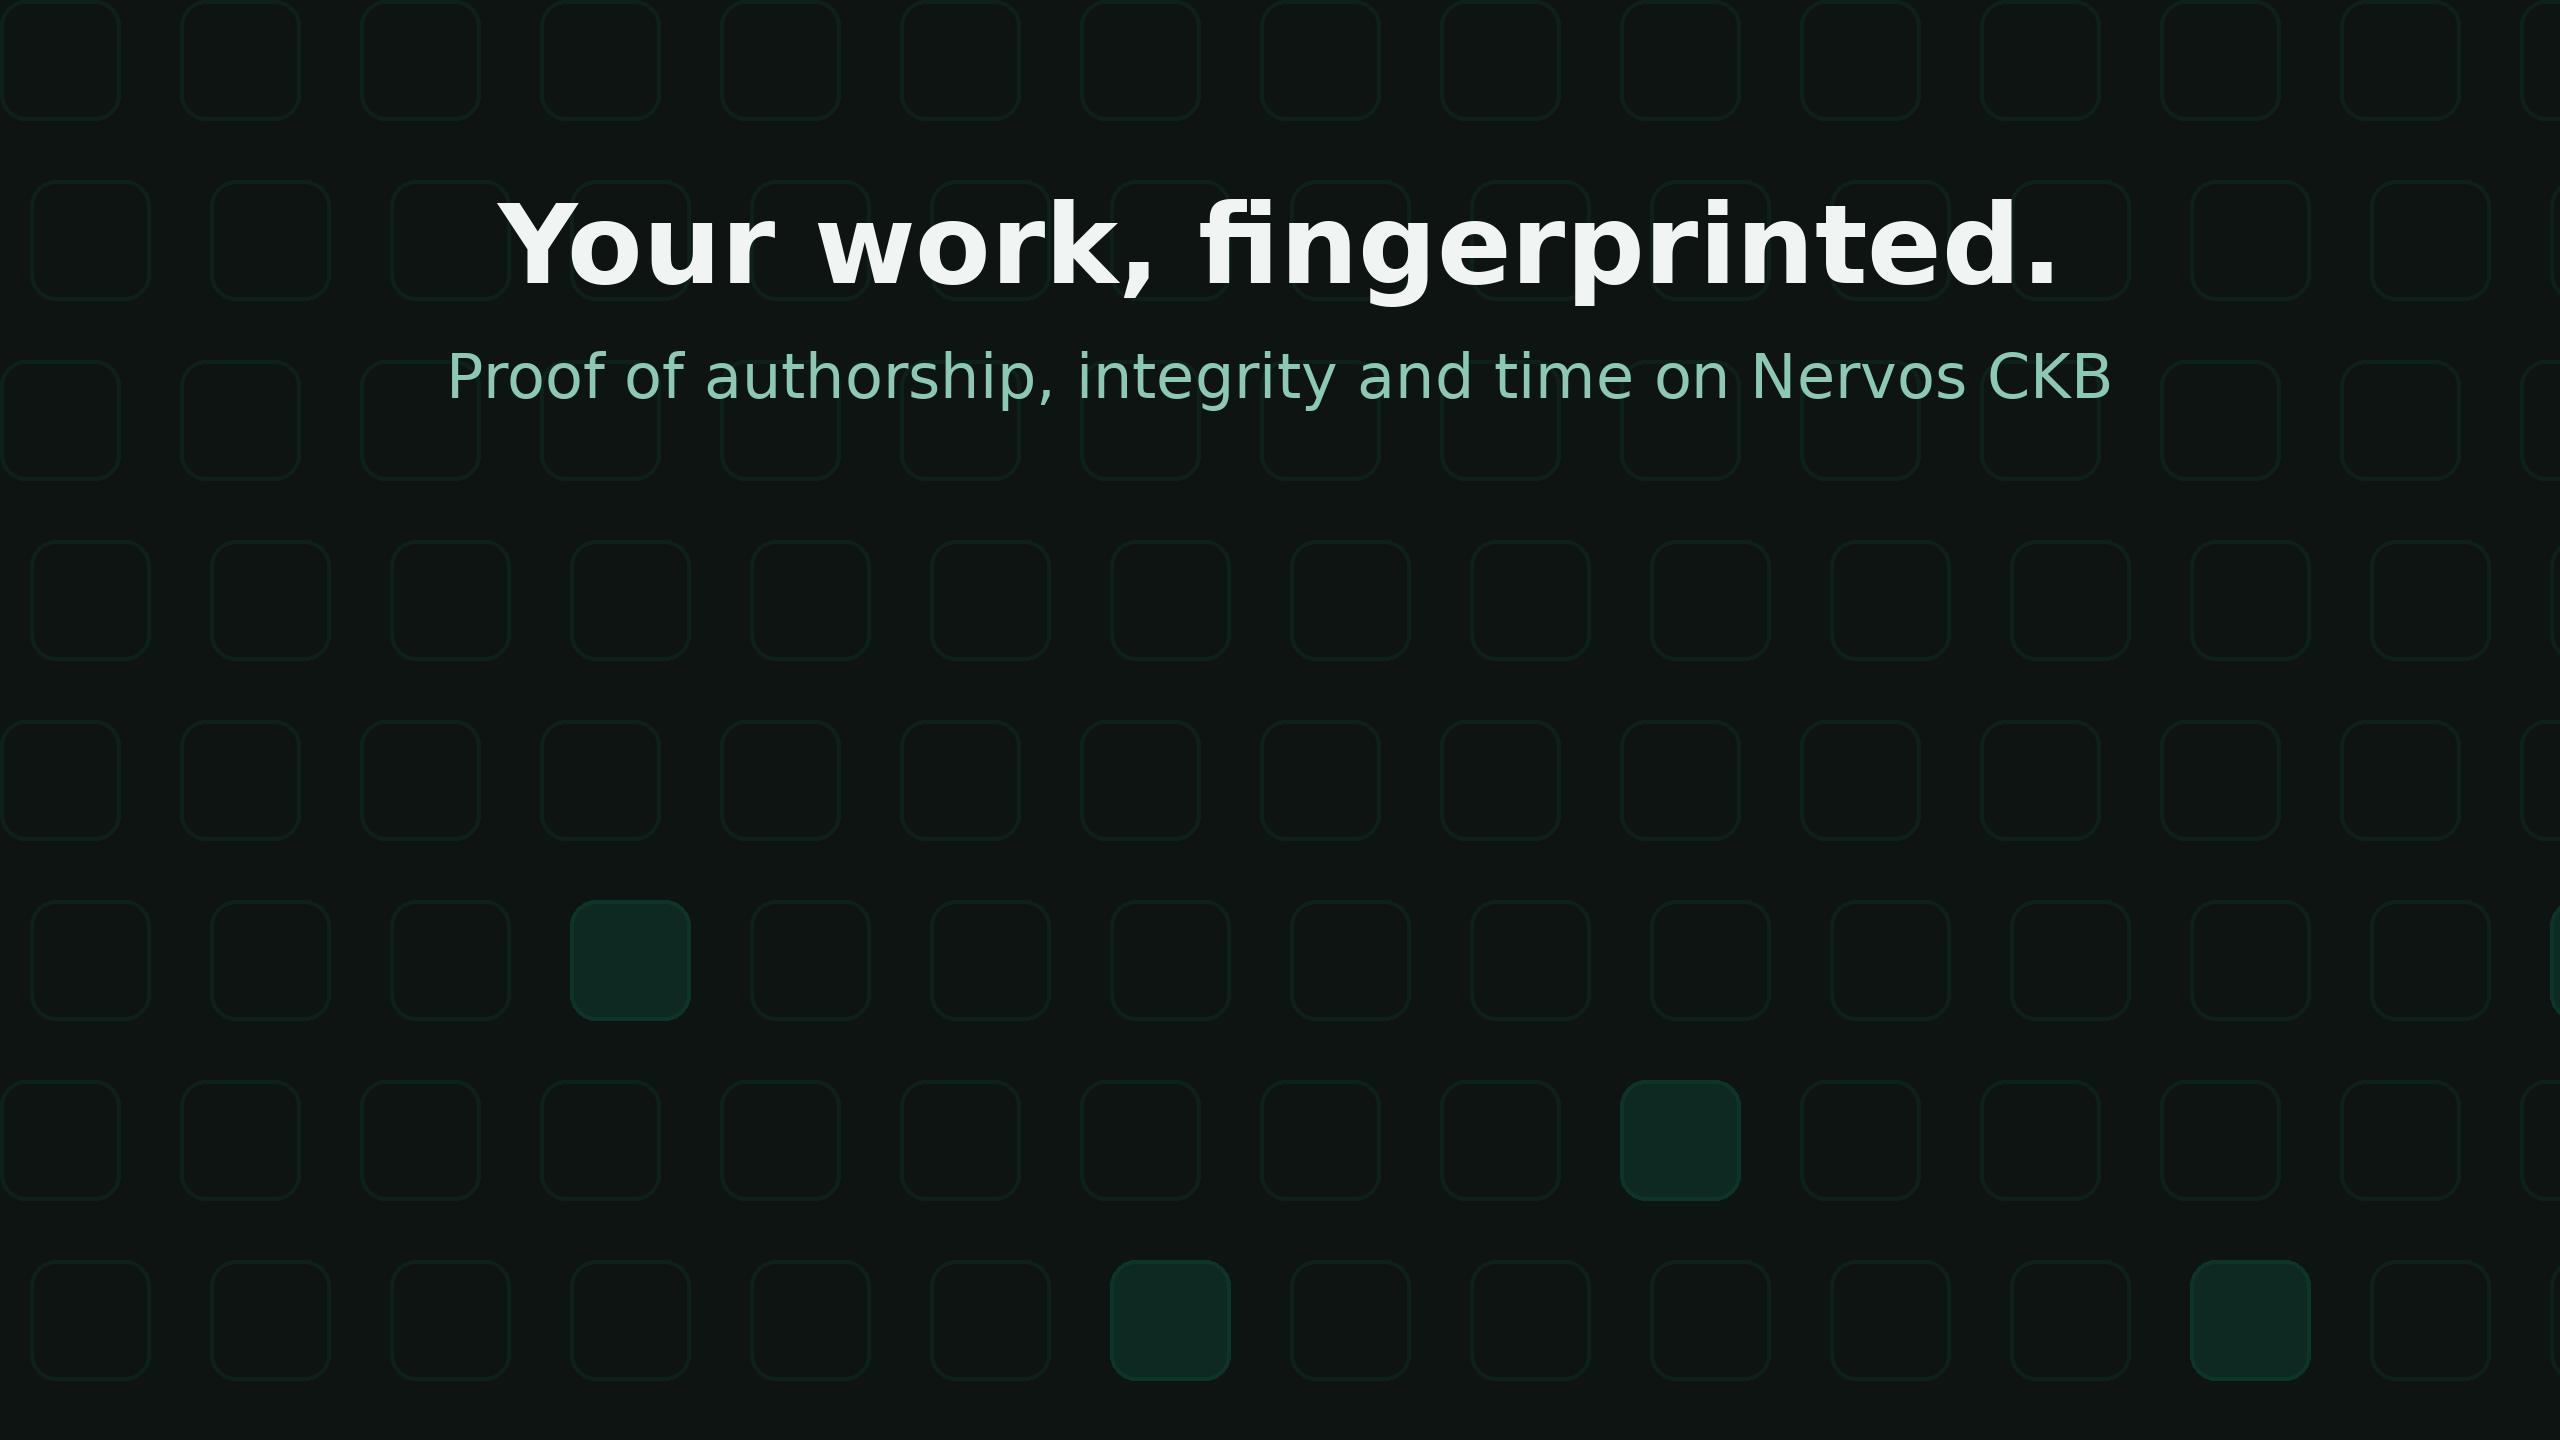
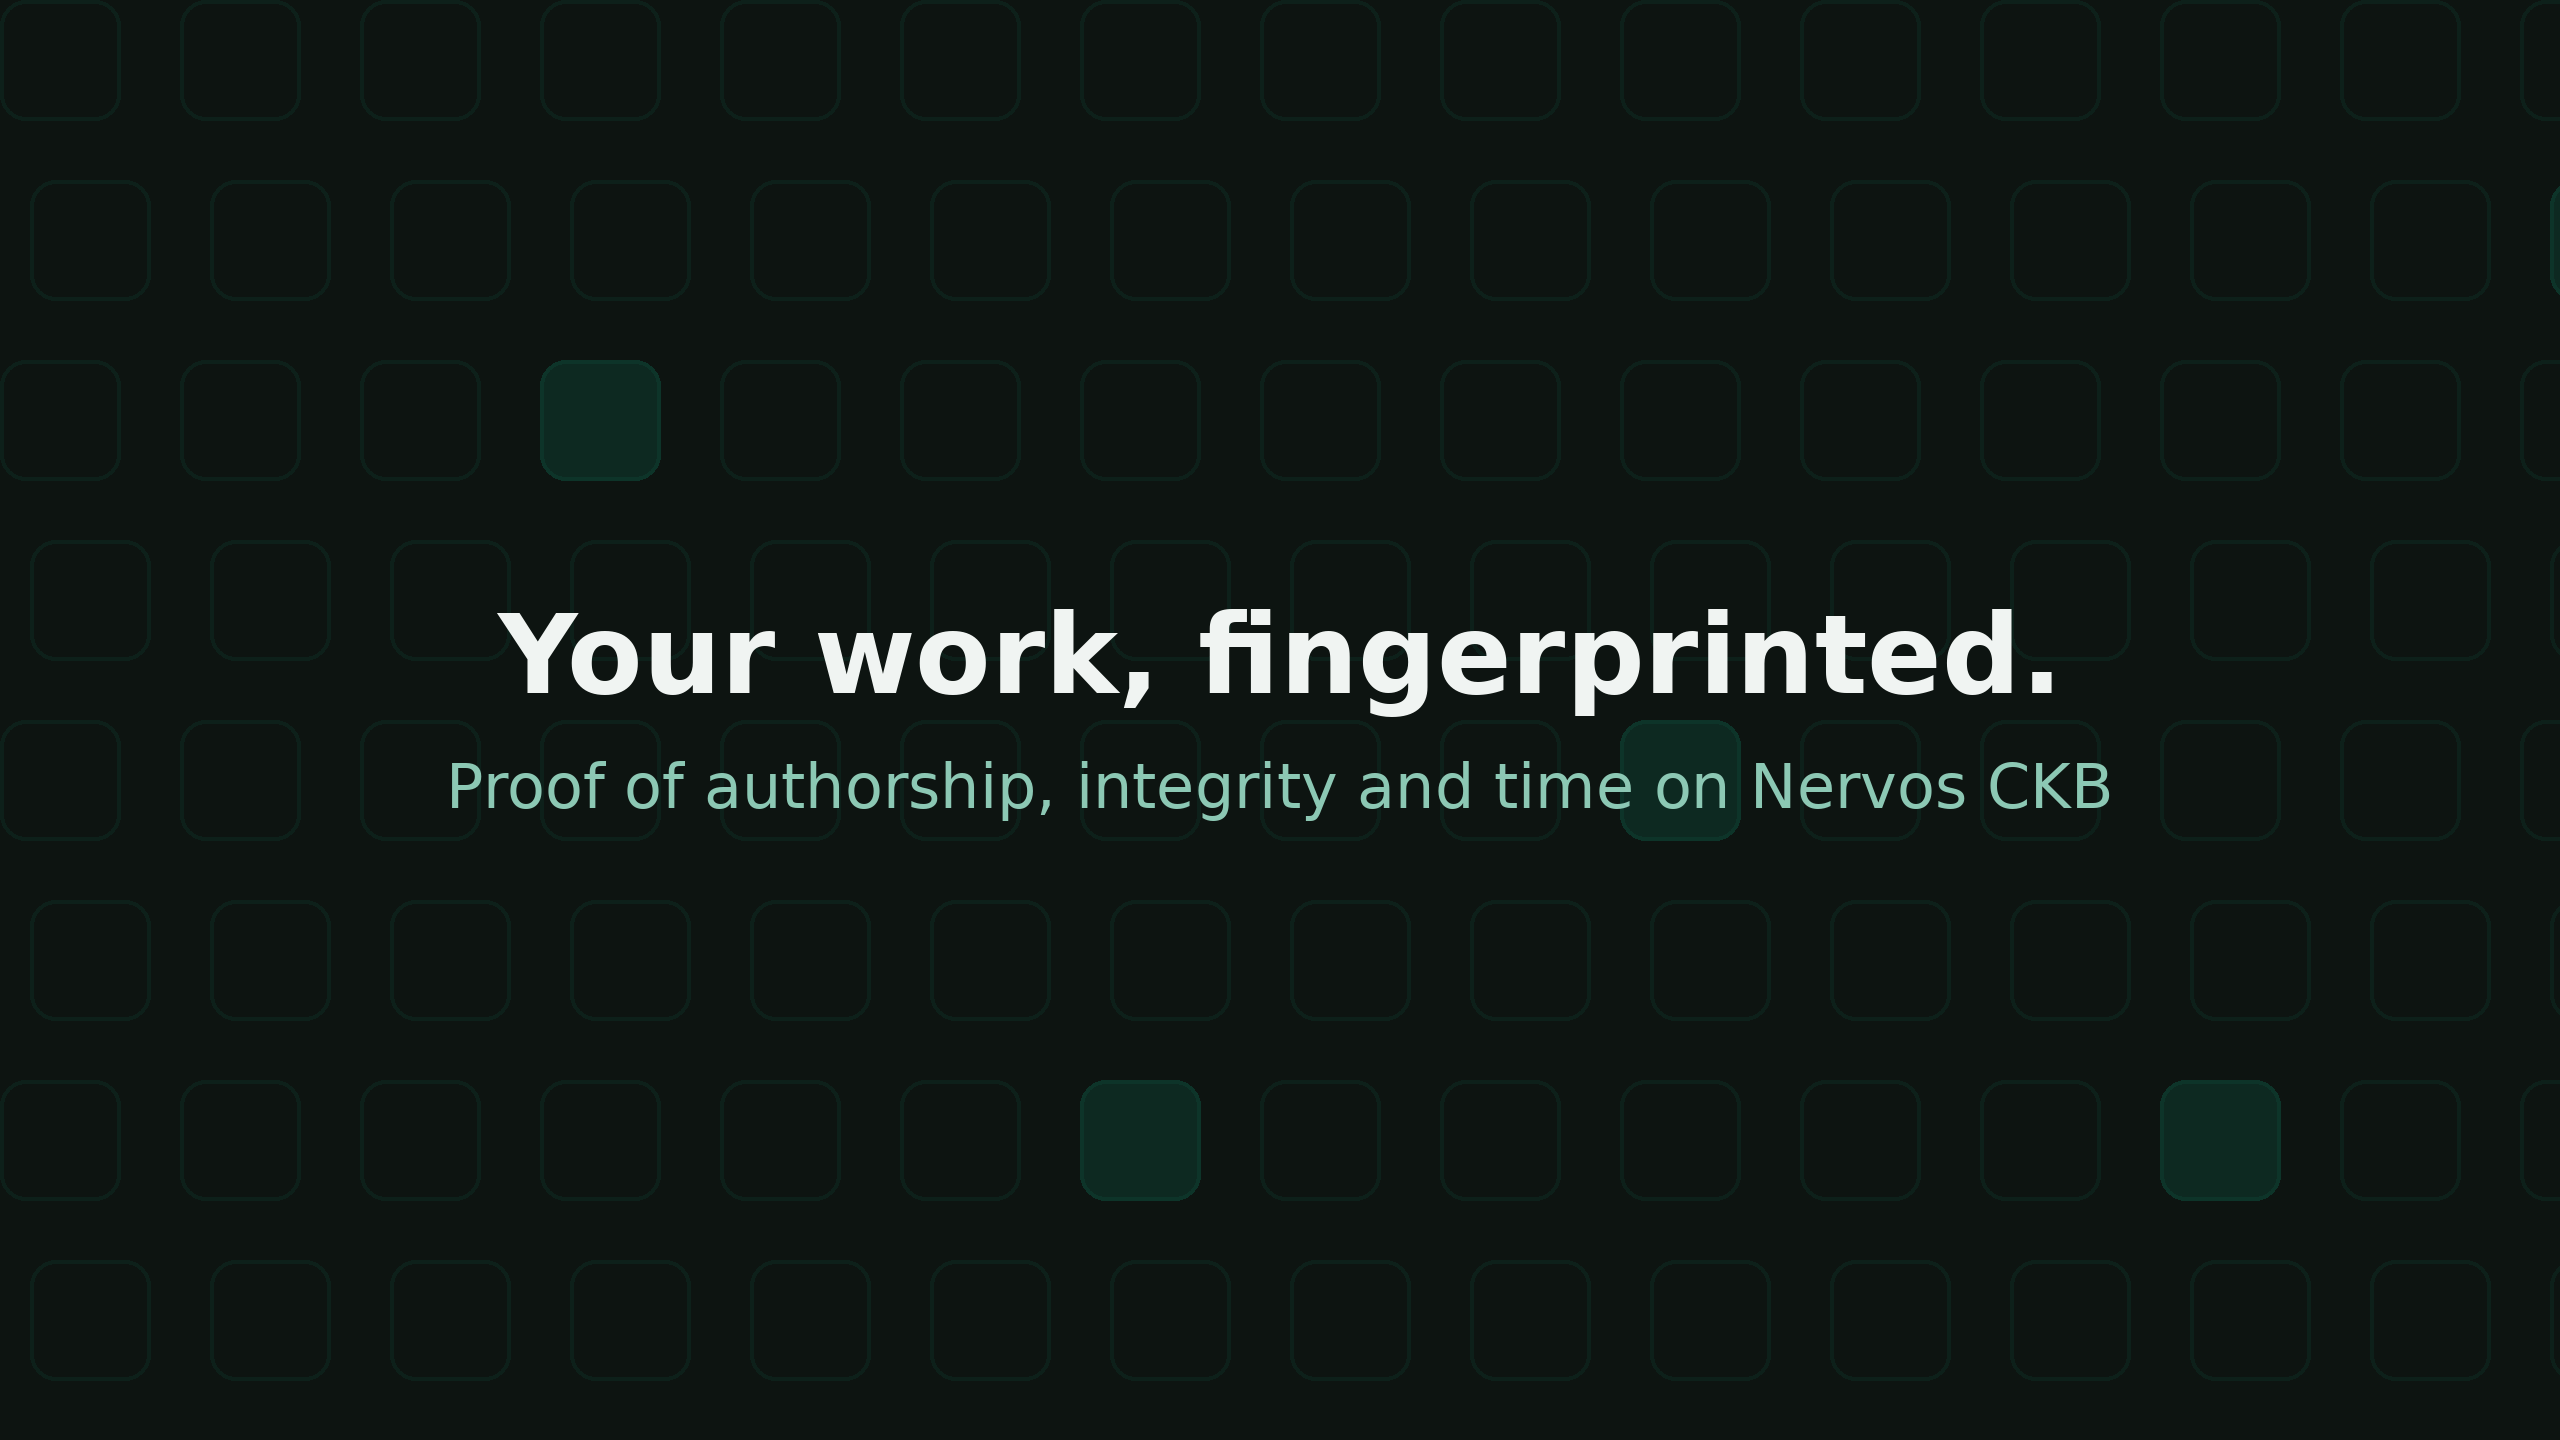
decorative hero improvement and Techdoc update

diff --git a/public/dappList/vericell/TECHNICAL.md b/public/dappList/vericell/TECHNICAL.md
@@ -1,4 +1,4 @@
-# VeriCell — Technical Documentation
+# VeriCell.net — Technical Documentation
 
 Proof of authorship, integrity and time for any digital project, anchored in a live cell on Nervos CKB. Accessible through a web app **and** a REST API for automation (CI/CD, GitHub Actions, scripts).
 
@@ -12,7 +12,7 @@ A SHA-256 hash published next to a download proves file integrity — but only a
 - **Author** — who published it (a hash has no owner)
 - **Currency** — whether this is still the latest version, and where to find it
 
-VeriCell solves all three by storing a hash **manifest** in a CKB cell:
+VeriCell.net solves all three by storing a hash **manifest** in a CKB cell:
 
 | Property     | Provided by                                                        |
 |--------------|--------------------------------------------------------------------|
@@ -46,7 +46,7 @@ VeriCell solves all three by storing a hash **manifest** in a CKB cell:
 └──────────────────────────────────────────────────────────────────────┘
 ```
 
-The chain is the source of truth. The database is **derived state** — anyone can rebuild it from the chain, so users never have to trust the VeriCell server. The web app can operate without the API (direct RPC + local index); the API adds global search and automation.
+The chain is the source of truth. The database is **derived state** — anyone can rebuild it from the chain, so users never have to trust the VeriCell.net server. The web app can operate without the API (direct RPC + local index); the API adds global search and automation.
 
 Package note: the CCC repository is `github.com/ckb-devrel/ccc`; the npm package is **`@ckb-ccc/ccc`**.
 
@@ -150,7 +150,7 @@ CREATE TABLE sync_state (             -- indexer cursor, reorg-safe
 );
 ```
 
-The **indexer worker** follows the chain (CKB indexer RPC, filtered by the VeriCell type script once Type ID is deployed), parses manifests, maintains these tables, and handles reorgs by rolling back to the fork point using `sync_state`.
+The **indexer worker** follows the chain (CKB indexer RPC, filtered by the VeriCell.net type script once Type ID is deployed), parses manifests, maintains these tables, and handles reorgs by rolling back to the fork point using `sync_state`.
 
 ## 7. REST API (`/api/v1`)
 
@@ -183,7 +183,7 @@ The user's key never leaves their machine; the CLI wraps both calls around a loc
 
 ### 7.2-B Service fee
 
-VeriCell may charge a service fee on top of the locked capacity: **1% of the new proof cell's locked capacity, waived entirely below 300 CKB**, floored to the nearest shannon. The fee is per-network config only — `VERICELL_FEE_ADDRESS_TESTNET` / `VERICELL_FEE_ADDRESS_MAINNET` (server; `VITE_`-prefixed for the web build) — and is fully inert on any network where the corresponding variable is unset (no fee address is ever hardcoded in this repo).
+VeriCell.net may charge a service fee on top of the locked capacity: **1% of the new proof cell's locked capacity, waived entirely below 300 CKB**, floored to the nearest shannon. The fee is per-network config only — `VERICELL_FEE_ADDRESS_TESTNET` / `VERICELL_FEE_ADDRESS_MAINNET` (server; `VITE_`-prefixed for the web build) — and is fully inert on any network where the corresponding variable is unset (no fee address is ever hardcoded in this repo).
 
 The fee applies to **every transaction that creates a new proof cell**, regardless of origin — a first anchor or a new version, whether built by the web app, the CLI, or any other API-prepared transaction. `POST /proofs/prepare` always builds the fee leg into the returned transaction and reports it in the `cost` field; `POST /proofs/submit` independently recomputes the fee due from the signed transaction's own output capacity and rejects (`402 Payment Required`) a transaction that doesn't actually pay it, for both the first-anchor and new-version paths — a client cannot skip the fee by stripping the leg before signing. Withdrawals create no new proof cell and so carry no service fee at all — `/proofs/prepare`'s withdraw response has no `cost` field, and `/proofs/submit` never requires one for a withdraw transaction.
 